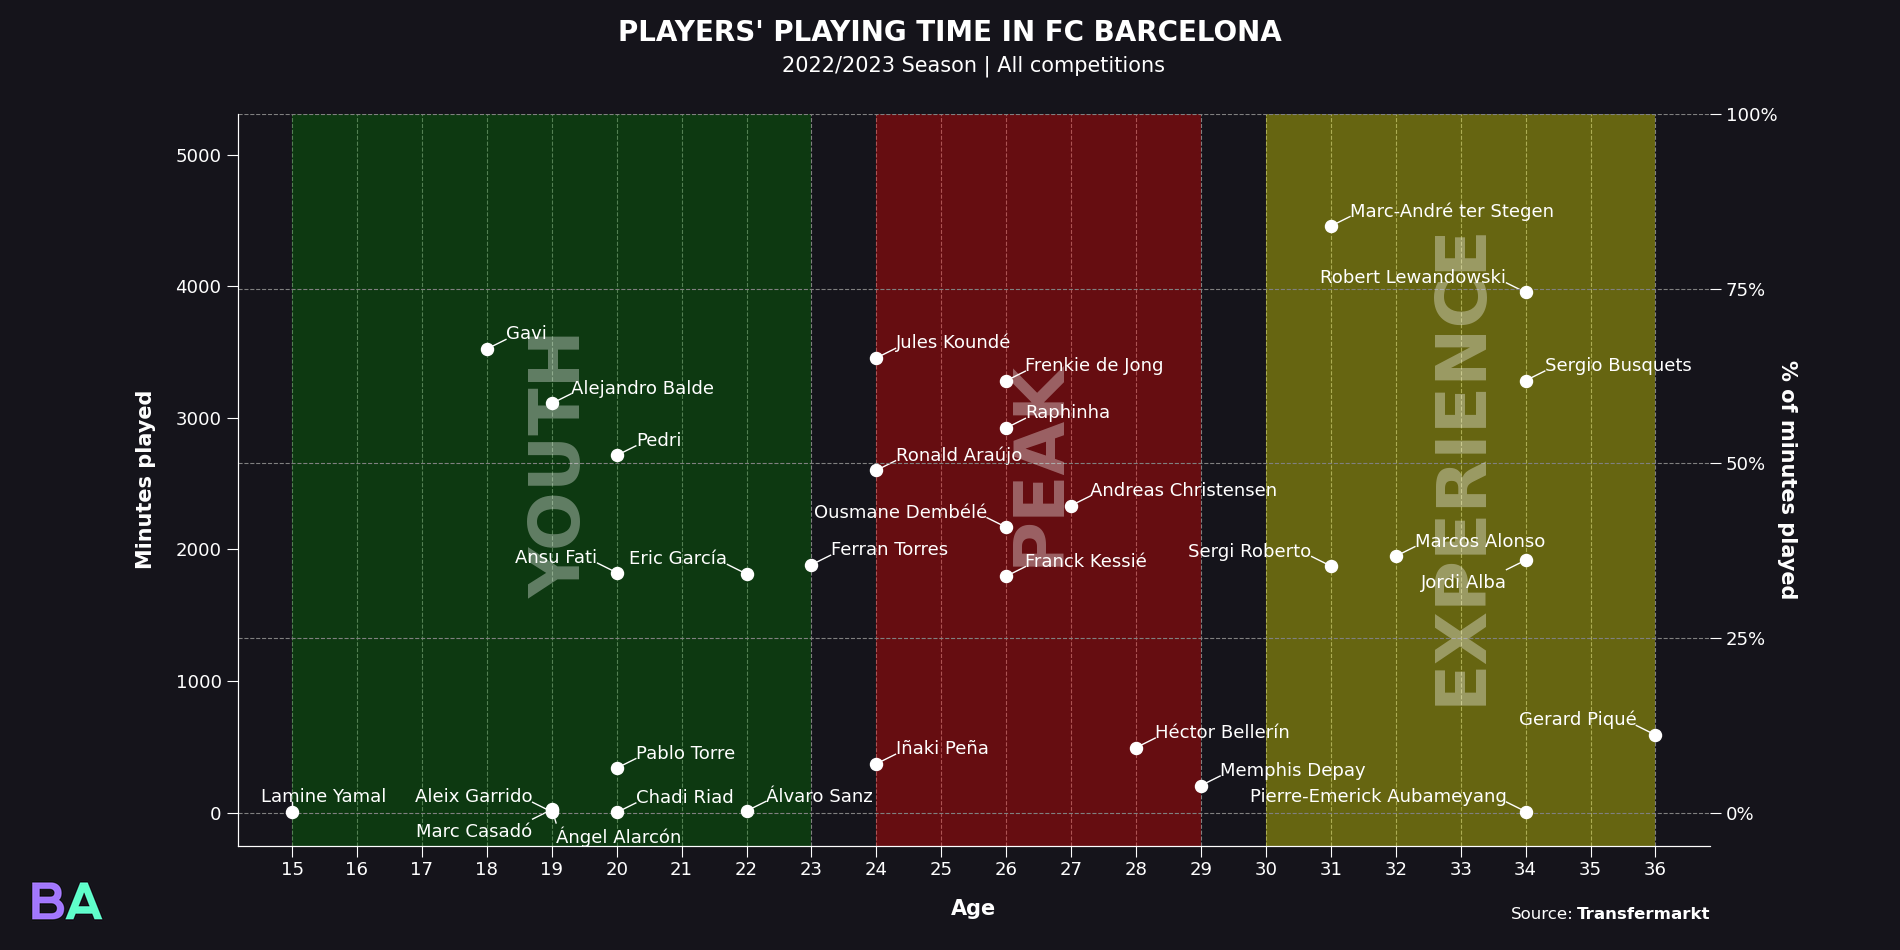
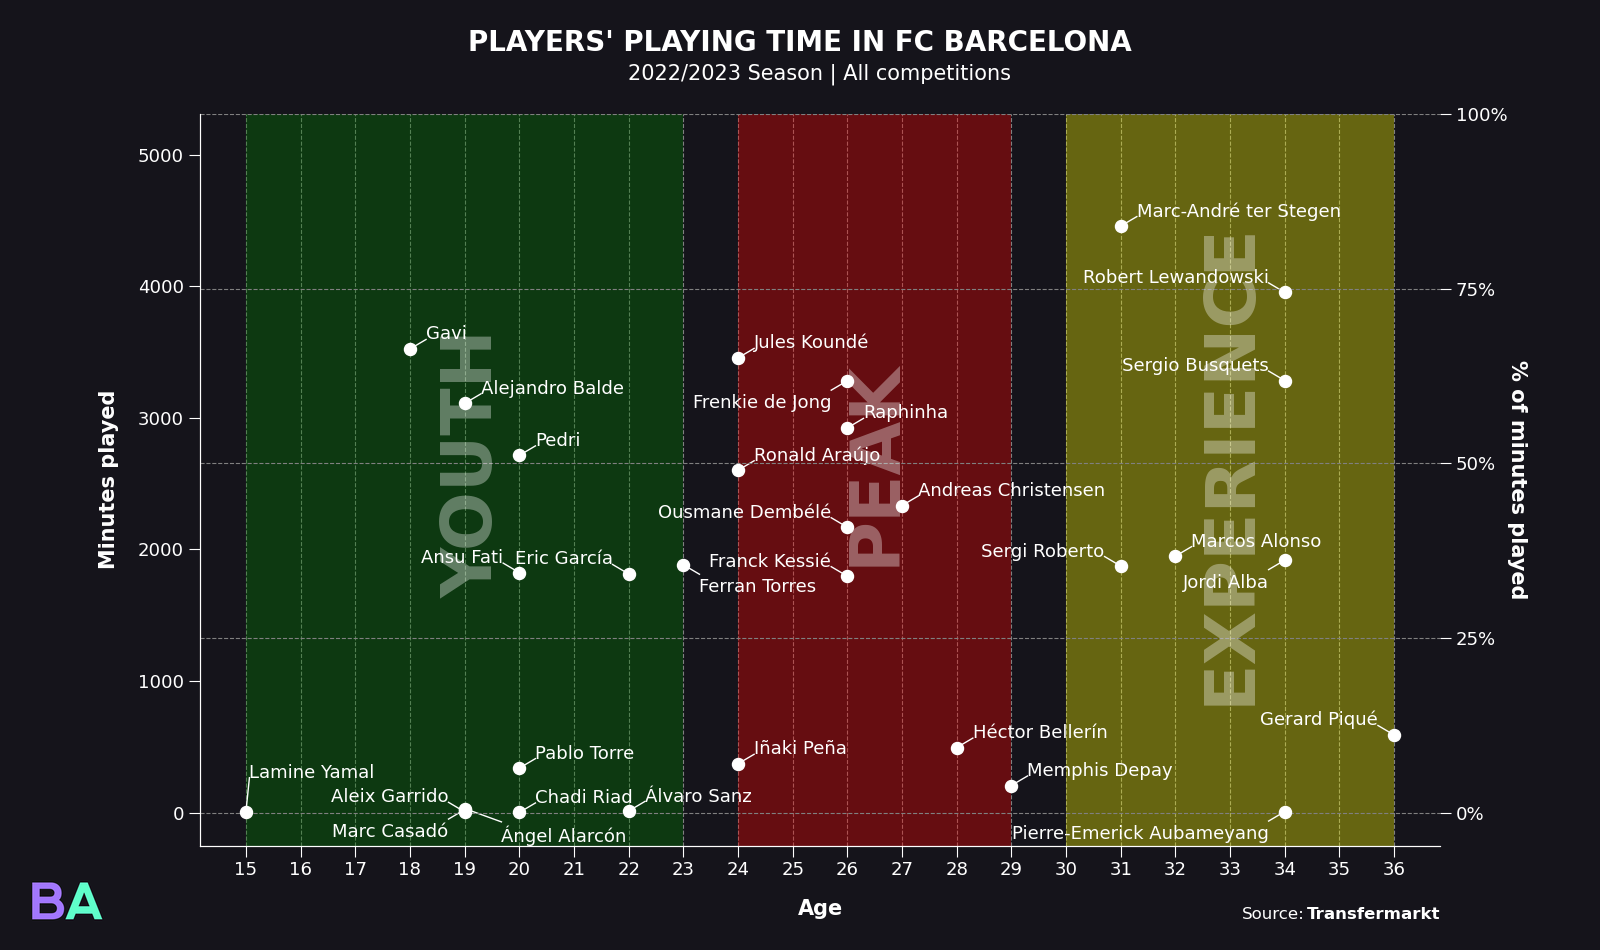
final enhancements

diff --git a/barca_playing_time_22_23_vizz/vizz.py b/barca_playing_time_22_23_vizz/vizz.py
@@ -53,7 +53,7 @@ fig, ax = plt.subplots()
 ax2 = ax.twinx()
 
 # Setting up graph global defaults
-fig.set_size_inches(19, 9.5)
+fig.set_size_inches(16, 9.5)
 
 fig.set_facecolor(BACKGROUND_COLOR)
 fig.set_edgecolor(PRIMARY_COLOR)
@@ -79,8 +79,8 @@ ax.tick_params(axis = "y", colors = PRIMARY_COLOR, size = 8, labelsize = 13)
 ax2.tick_params(axis = "y", colors = PRIMARY_COLOR, size = 8, labelsize = 13)
 
 # Setting up graph (sub)title
-plt.suptitle("PLAYERS' PLAYING TIME IN FC BARCELONA", fontsize = 20, fontweight = "bold", family = FONT_FAMILY, color = PRIMARY_COLOR)
-plt.text(0.5, 1.065, "2022/2023 Season | All competitions", fontsize = 15, transform = plt.gca().transAxes, fontweight = "regular", family = FONT_FAMILY, color = PRIMARY_COLOR, ha = "center", va = "center")
+plt.suptitle("PLAYERS' PLAYING TIME IN FC BARCELONA", y = 0.969, fontsize = 20, fontweight = "bold", family = FONT_FAMILY, color = PRIMARY_COLOR)
+plt.text(0.5, 1.055, "2022/2023 Season | All competitions", fontsize = 15, transform = plt.gca().transAxes, fontweight = "regular", family = FONT_FAMILY, color = PRIMARY_COLOR, ha = "center", va = "center")
 
 # Setting up axes values and their respective labels
 plt.xticks(range(minimum_age, maximum_age + 1), color = PRIMARY_COLOR)
@@ -104,7 +104,7 @@ ax2.set_ylim(ax.get_ylim())
 
 # Setting up background spans
 ax.axvspan(minimum_age, 23, facecolor = "green", alpha = 0.35, label = "YOUTH")
-plt.text(19.1395, MAXIMUM_MINUTES / 2, "YOUTH", fontsize = 50, rotation = 90, color = PRIMARY_COLOR, alpha = 0.35, ha = "center", va = "center", fontweight = "bold")
+plt.text(19.15, MAXIMUM_MINUTES / 2, "YOUTH", fontsize = 50, rotation = 90, color = PRIMARY_COLOR, alpha = 0.35, ha = "center", va = "center", fontweight = "bold")
 
 ax.axvspan(24, 29, facecolor = "red", alpha = 0.35, label = "PEAK")
 plt.text((24 + 29) / 2, MAXIMUM_MINUTES / 2, "PEAK", fontsize = 50, rotation = 90, color = PRIMARY_COLOR, alpha = 0.35, ha = "center", va = "center", fontweight = "bold")
@@ -123,7 +123,7 @@ ax2.yaxis.grid(color = "gray", linestyle = "dashed")
 plt.figimage(Image.open("logo.png").resize((100, 100), Image.LANCZOS), xo = 17, yo = -1)
 
 # Adding data source text
-plt.text(0.9075, -0.095, "Source:", transform = plt.gca().transAxes, family = FONT_FAMILY, ha = "right", va = "center", color = PRIMARY_COLOR, fontweight = "regular", fontsize = 12)
+plt.text(0.84, -0.095, "Source:", transform = plt.gca().transAxes, family = FONT_FAMILY, ha = "left", va = "center", color = PRIMARY_COLOR, fontweight = "regular", fontsize = 12)
 plt.text(1.0, -0.095, "Transfermarkt", transform = plt.gca().transAxes, family = FONT_FAMILY, ha = "right", va = "center", color = PRIMARY_COLOR, fontweight = "bold", fontsize = 12)
 
 # Scatter the data
